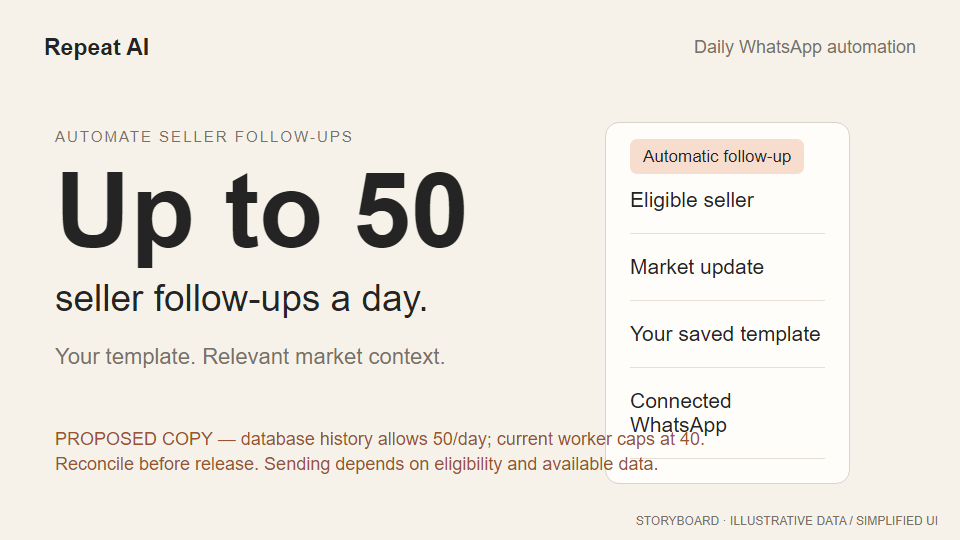
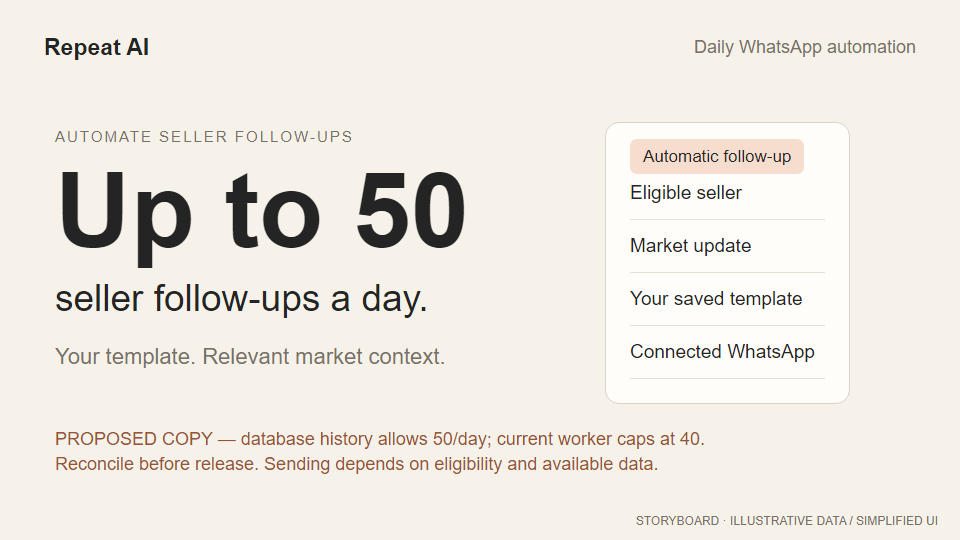
Keep automation storyboard caveat clear of panel

diff --git a/video/src/RepeatAIStoryboard.tsx b/video/src/RepeatAIStoryboard.tsx
@@ -27,7 +27,7 @@ export const StoryFrame:React.FC<{index:number}>=({index})=><AbsoluteFill style=
   {index===3 && <><Header title="Sellers / Sara / Market data"/><div style={{...box,position:'absolute',left:50,top:123,width:260}}><div style={label}>Seller</div><h1>Sara</h1><p style={{fontSize:23}}>Marina Tower · 2 bed</p><Pill>Prospect</Pill></div><div style={{...box,position:'absolute',left:396,top:123,width:468}}><div style={label}>Sales history in Marina Tower</div><h2 style={{fontSize:30}}>A reason to reach out.</h2><div style={{background:'#f6ddce',padding:22,fontSize:24,lineHeight:1.6}}>Recent sale<br/><strong>AED 2,400,000</strong><br/>2 bed · 1,410 sq ft</div></div><div style={{position:'absolute',left:50,top:422,fontSize:20,color:'#777168'}}>Listing changes and completed transactions are separate data.</div></>}
   {index===4 && <><Header title="Sara / Message"/><div style={{...box,position:'absolute',left:60,top:109,width:786}}><div style={{display:'flex',justifyContent:'space-between',alignItems:'center'}}><Pill>Template: Transaction update</Pill><span style={{fontSize:17}}>WhatsApp connected</span></div><div style={{border:'1px solid #ddd5c9',padding:23,marginTop:20,fontSize:24,lineHeight:1.35}}>{message}<span style={{color:'#b45d30'}}>│</span></div><div style={{display:'flex',justifyContent:'space-between',marginTop:22,alignItems:'center'}}><span style={{fontSize:17}}>Editable for this seller</span><span style={{background:ink,color:cream,padding:'13px 20px',borderRadius:8,fontSize:20}}>Send via WhatsApp</span></div></div></>}
   {index===5 && <><div style={{position:'absolute',left:44,top:63,width:260}}><div style={label}>WhatsApp</div><h1 style={{fontSize:39,lineHeight:1.13}}>A relevant update.<br/>Not “just checking in”.</h1><p style={{fontSize:19,color:'#777168',lineHeight:1.5}}>Same message.<br/>Realistic chat layout.<br/>Fictional example reply.</p></div><div style={{position:'absolute',left:355,top:25,width:540,height:474,border:'2px solid #d5cec0',borderRadius:24,overflow:'hidden',background:'#ebe6db'}}><div style={{background:'#fffdf9',padding:'18px 22px',fontSize:22}}>‹　●　Sara <span style={{float:'right'}}>Call　⋮</span></div><div style={{textAlign:'center',fontSize:13,color:'#777168',marginTop:13}}>TODAY</div><div style={{background:'#dceccd',margin:'14px 18px 0 67px',padding:20,borderRadius:'13px 0 13px 13px',fontSize:21,lineHeight:1.3}}>{message}<div style={{textAlign:'right',fontSize:12,marginTop:8,color:'#60755a'}}>10:24　✓✓</div></div><div style={{background:'#fffdf9',margin:'16px 95px 0 18px',padding:15,borderRadius:'0 13px 13px 13px',fontSize:21}}>Yes, can we talk this afternoon?<div style={{fontSize:12,marginTop:7,color:'#777168'}}>10:25</div></div></div></>}
-  {index===6 && <><Header title="Daily WhatsApp automation"/><div style={{position:'absolute',left:55,top:128,width:480}}><div style={label}>Automate seller follow-ups</div><div style={{fontSize:105,fontWeight:700,marginTop:13,lineHeight:1}}>Up to 50</div><div style={{fontSize:37,marginTop:15}}>seller follow-ups a day.</div><div style={{fontSize:22,color:'#777168',marginTop:24}}>Your template. Relevant market context.</div></div><div style={{...box,position:'absolute',left:605,top:122,width:245}}><Pill>Automatic follow-up</Pill>{['Eligible seller','Market update','Your saved template','Connected WhatsApp'].map(s=><div key={s} style={{padding:'21px 0',fontSize:21,borderBottom:'1px solid #e5dfd6'}}>{s}</div>)}</div><div style={{position:'absolute',left:55,top:427,right:50,fontSize:18,color:'#9a522f',lineHeight:1.4}}>PROPOSED COPY — database history allows 50/day; current worker caps at 40.<br/>Reconcile before release. Sending depends on eligibility and available data.</div></>}
+  {index===6 && <><Header title="Daily WhatsApp automation"/><div style={{position:'absolute',left:55,top:128,width:480}}><div style={label}>Automate seller follow-ups</div><div style={{fontSize:105,fontWeight:700,marginTop:13,lineHeight:1}}>Up to 50</div><div style={{fontSize:37,marginTop:15}}>seller follow-ups a day.</div><div style={{fontSize:22,color:'#777168',marginTop:24}}>Your template. Relevant market context.</div></div><div style={{...box,position:'absolute',left:605,top:122,width:245}}><Pill>Automatic follow-up</Pill>{['Eligible seller','Market update','Your saved template','Connected WhatsApp'].map(s=><div key={s} style={{padding:'15px 0',fontSize:19,borderBottom:'1px solid #e5dfd6'}}>{s}</div>)}</div><div style={{position:'absolute',left:55,top:427,right:50,fontSize:18,color:'#9a522f',lineHeight:1.4}}>PROPOSED COPY — database history allows 50/day; current worker caps at 40.<br/>Reconcile before release. Sending depends on eligibility and available data.</div></>}
   {index===7 && <><div style={{position:'absolute',left:15,top:115,width:405,height:405}}><Broker frame={26}/></div><div style={{position:'absolute',left:453,top:135}}><div style={{fontSize:45,fontWeight:700}}>Repeat AI</div><div style={{fontSize:34,lineHeight:1.2,marginTop:24}}>Seller follow-up,<br/>done properly.</div><div style={{marginTop:28,fontSize:20,color:'#777168'}}>Sellers. Market context. WhatsApp.</div><div style={{background:ink,color:cream,padding:'16px 23px',borderRadius:9,marginTop:28,display:'inline-block',fontSize:22}}>Get started with Repeat AI</div></div></>}
 </AbsoluteFill>;
 
